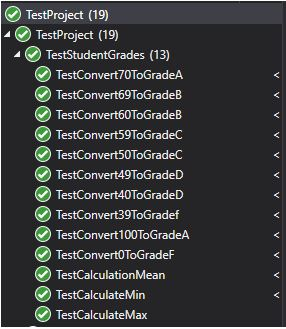
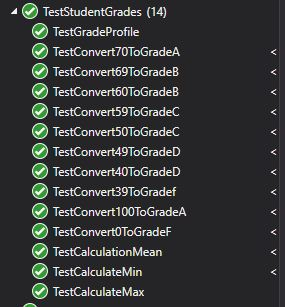
testing changes

diff --git a/TestProject/TestStudentGrades.cs b/TestProject/TestStudentGrades.cs
@@ -211,12 +211,12 @@ namespace TestProject
             converter.CalculateGradeProfile();
 
             bool expectedProfile;
-            expectedProfile = ((converter.GradeProfile[0] == 1) &&
+            expectedProfile = ((converter.GradeProfile[0] == 0) &&
                                (converter.GradeProfile[1] == 3) &&
                                (converter.GradeProfile[2] == 1) &&
                                (converter.GradeProfile[3] == 1) &&
                                (converter.GradeProfile[4] == 1) &&
-                               (converter.GradeProfile[5] == 3));
+                               (converter.GradeProfile[5] == 4));
             
             Assert.IsTrue(expectedProfile);
         }
